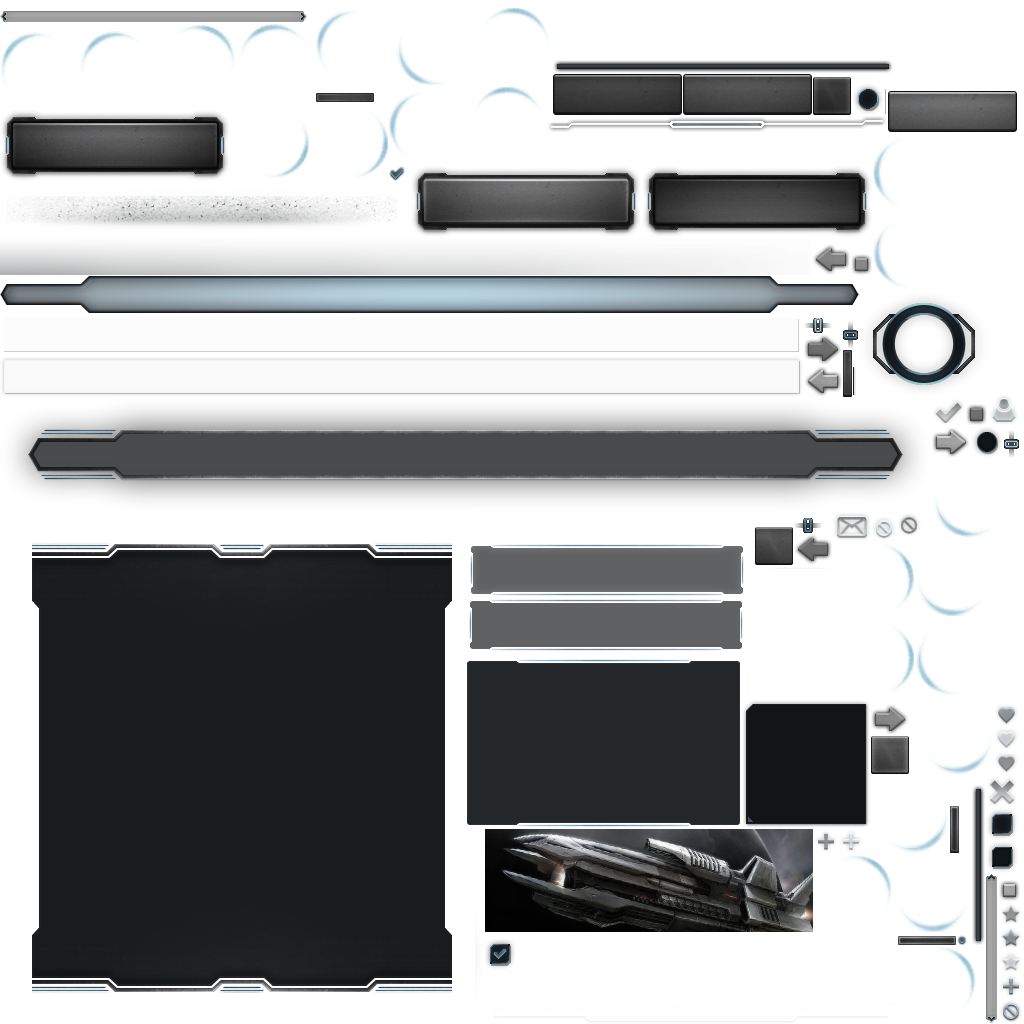
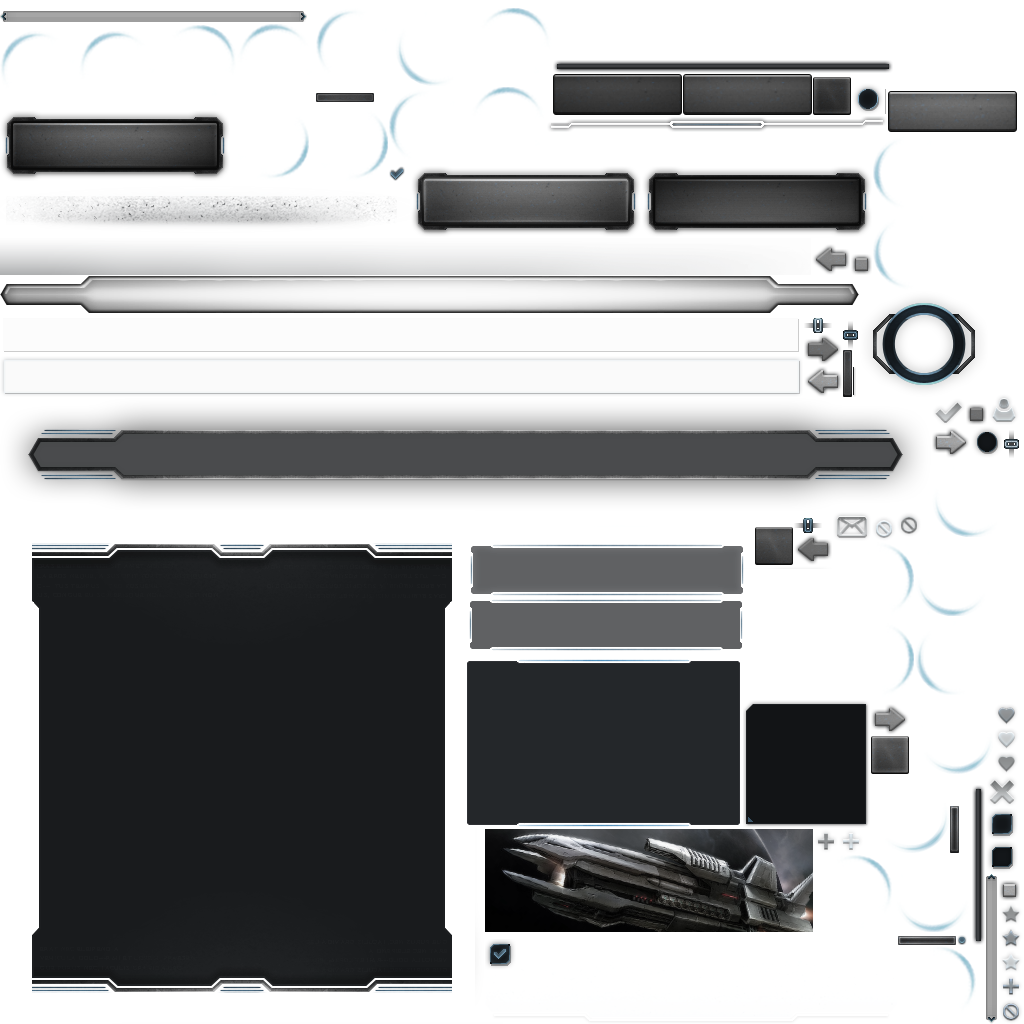
Separate component style for item UIs + option to select the style in the item config files, removed a bunch of hard-coded UI element color changes

Changed region(s): [[0.0, 0.25, 0.8438, 0.3125]]

diff --git a/Subsurface/Source/Characters/AI/CrewCommander.cs b/Subsurface/Source/Characters/AI/CrewCommander.cs
@@ -52,7 +52,7 @@ namespace Barotrauma
 
         private void CreateGUIFrame()
         {
-            frame = new GUIFrame(Rectangle.Empty, Color.Black * 0.6f);
+            frame = new GUIFrame(Rectangle.Empty, Color.Black * 0.6f, null);
             frame.Padding = new Vector4(200.0f, 100.0f, 200.0f, 100.0f);
 
             GUIButton closeButton = new GUIButton(new Rectangle(0, 50, 100, 20), "Close", Alignment.BottomCenter, "", frame);
@@ -110,12 +110,12 @@ namespace Barotrauma
 
         private GUIButton CreateOrderButton(Rectangle rect, Order order, bool createSymbol = true)
         {
-            var orderButton = new GUIButton(rect, order.Name, Color.Black * 0.7f, Alignment.TopCenter, Alignment.Center, null, frame);
+            var orderButton = new GUIButton(rect, order.Name, null, Alignment.TopCenter, Alignment.Center, "GUITextBox", frame);
             orderButton.Padding = new Vector4(5.0f, 5.0f, 5.0f, 5.0f);
-            orderButton.TextColor = Color.White;
+            /*orderButton.TextColor = Color.White;
             orderButton.Color = Color.Black * 0.5f;
             orderButton.HoverColor = Color.LightGray * 0.5f;
-            orderButton.OutlineColor = Color.LightGray * 0.8f;
+            orderButton.OutlineColor = Color.LightGray * 0.8f;*/
             orderButton.UserData = order;
             orderButton.OnClicked = SetOrder;
             
@@ -169,15 +169,15 @@ namespace Barotrauma
                 int x = startX + (150 + spacing) * (i % Math.Min(charactersPerRow, aliveCharacters.Count));
                 int y = (105 + spacing)*((int)Math.Floor((double)i / charactersPerRow));
 
-                GUIButton characterButton = new GUIButton(new Rectangle(x+75, y, 150, 40), "", Color.Black, Alignment.TopCenter, null, frame);
+                GUIButton characterButton = new GUIButton(new Rectangle(x+75, y, 150, 40), "", null, Alignment.TopCenter, "GUITextBox", frame);
                 
                 characterButton.UserData = character;
                 characterButton.Padding = new Vector4(5.0f, 5.0f, 5.0f, 5.0f);
                 
-                characterButton.Color = Character.Controlled == character ? Color.Gold * 0.2f : Color.Black * 0.5f;
-                characterButton.HoverColor = Color.LightGray * 0.5f;
+                characterButton.Color = Character.Controlled == character ? Color.Gold : Color.White;
+                /*characterButton.HoverColor = Color.LightGray * 0.5f;
                 characterButton.SelectedColor = Color.Gold * 0.6f;
-                characterButton.OutlineColor = Color.LightGray * 0.8f;
+                characterButton.OutlineColor = Color.LightGray * 0.8f;*/
 
                 characterFrameBottom = Math.Max(characterFrameBottom, characterButton.Rect.Bottom);
                 
@@ -187,9 +187,9 @@ namespace Barotrauma
                 GUITextBlock textBlock = new GUITextBlock(
                     new Rectangle(40, 0, 0, 25),
                     name,
-                    Color.Transparent, Color.White,
+                    Color.Transparent, null,
                     Alignment.Left, Alignment.Left,
-                    null, characterButton, false);
+                    "", characterButton, false);
                 textBlock.Font = GUI.SmallFont;
                 textBlock.Padding = new Vector4(5.0f, 0.0f, 5.0f, 0.0f);
 
@@ -259,8 +259,8 @@ namespace Barotrauma
             var existingOrder = characterFrame.children.Find(c => c.UserData is Order);
             if (existingOrder != null) characterFrame.RemoveChild(existingOrder);
 
-            var orderFrame = new GUIFrame(new Rectangle(-5, characterFrame.Rect.Height, characterFrame.Rect.Width, 30 + order.Options.Length * 15), null, characterFrame);
-            orderFrame.OutlineColor = Color.LightGray * 0.5f;
+            var orderFrame = new GUIFrame(new Rectangle(-5, characterFrame.Rect.Height, characterFrame.Rect.Width, 30 + order.Options.Length * 15), "InnerFrame", characterFrame);
+            /*orderFrame.OutlineColor = Color.LightGray * 0.5f;*/
             orderFrame.Padding = new Vector4(5.0f, 5.0f, 5.0f, 5.0f);
             orderFrame.UserData = order;
 
@@ -269,18 +269,14 @@ namespace Barotrauma
             img.Color = order.Color;
             img.CanBeFocused = false;
 
-            new GUITextBlock(new Rectangle(0, 0, 0, 20), order.DoingText, "", Alignment.TopLeft, Alignment.TopCenter, orderFrame);
-
-
-
-
-
+            new GUITextBlock(new Rectangle(img.Rect.Width, 0, 0, 20), order.DoingText, "", Alignment.TopLeft, Alignment.CenterLeft, orderFrame);
+            
             var optionList = new GUIListBox(new Rectangle(0, 20, 0, 80), Color.Transparent, null, orderFrame);
             optionList.UserData = order;
 
             for (int i = 0; i < order.Options.Length; i++ )
             {
-                var optionBox = new GUITextBlock(new Rectangle(0, 0, 0, 15), order.Options[i], "", optionList);
+                var optionBox = new GUITextBlock(new Rectangle(0, 0, 0, 15), order.Options[i], "", Alignment.TopLeft, Alignment.CenterLeft, optionList);
                 optionBox.Font = GUI.SmallFont;
                 optionBox.UserData = order.Options[i];
 

diff --git a/Subsurface/Source/GameSession/CrewManager.cs b/Subsurface/Source/GameSession/CrewManager.cs
@@ -38,6 +38,7 @@ namespace Barotrauma
             characterInfos = new List<CharacterInfo>();
             
             guiFrame = new GUIFrame(new Rectangle(0, 50, 150, 450), Color.Transparent);
+            guiFrame.Padding = Vector4.One * 5.0f;
 
             listBox = new GUIListBox(new Rectangle(45, 30, 150, 0), Color.Transparent, null, guiFrame);
             listBox.ScrollBarEnabled = false;
@@ -128,33 +129,14 @@ namespace Barotrauma
             {
                 commander.UpdateCharacters();
             }
-
-
+            
             character.Info.CreateCharacterFrame(listBox, character.Info.Name.Replace(' ', '\n'), character);
 
-            GUIFrame frame = new GUIFrame(new Rectangle(0, 0, 40, 40), Color.Transparent, null, orderListBox);
-            frame.UserData = character;
-            //frame.Padding = new Vector4(5.0f, 5.0f, 5.0f, 5.0f);
-            frame.HoverColor = Color.LightGray * 0.5f;
-            frame.SelectedColor = Color.Gold * 0.5f;
+            GUIFrame orderFrame = new GUIFrame(new Rectangle(0, 0, 40, 40), Color.Transparent, "ListBoxElement", orderListBox);
+            orderFrame.UserData = character;
 
             var ai = character.AIController as HumanAIController;
             SetCharacterOrder(character, ai.CurrentOrder);
-
-           
-
-            //string name = character.Info.Name.Replace(' ', '\n');
-
-            //GUITextBlock textBlock = new GUITextBlock(
-            //    new Rectangle(40, 0, 0, 25),
-            //    name,
-            //    Color.Transparent, Color.White,
-            //    Alignment.Left, Alignment.Left,
-            //    null, frame, false);
-            //textBlock.Font = GUI.SmallFont;
-            //textBlock.Padding = new Vector4(5.0f, 0.0f, 5.0f, 0.0f);
-
-            //new GUIImage(new Rectangle(-10, -5, 0, 0), character.AnimController.Limbs[0].sprite, Alignment.Left, frame);
         }
 
         public void AddToGUIUpdateList()

diff --git a/Subsurface/Source/GUI/GUIProgressBar.cs b/Subsurface/Source/GUI/GUIProgressBar.cs
@@ -56,7 +56,7 @@ namespace Barotrauma
             frame = new GUIFrame(new Rectangle(0, 0, 0, 0), null, this);
             GUI.Style.Apply(frame, "", this);
 
-            slider = new GUIFrame(new Rectangle(0, 0, 0, 0), null, this);
+            slider = new GUIFrame(new Rectangle(0, 0, 0, 0), null);
             GUI.Style.Apply(slider, "Slider", this);
 
             this.barSize = barSize;
@@ -95,7 +95,30 @@ namespace Barotrauma
 
             DrawChildren(spriteBatch);
 
-            //GUI.DrawRectangle(spriteBatch, rect, color * (color.A / 255.0f), true);
+            Color currColor = color;
+            if (state == ComponentState.Selected) currColor = selectedColor;
+            if (state == ComponentState.Hover) currColor = hoverColor;
+
+            if (slider.sprites != null && slider.sprites[state].Count > 0)
+            {
+                foreach (UISprite uiSprite in slider.sprites[state])
+                {
+                    if (uiSprite.Tile)
+                    {
+                        uiSprite.Sprite.DrawTiled(spriteBatch, slider.Rect.Location.ToVector2(), slider.Rect.Size.ToVector2(), currColor);
+                    }
+                    else
+                    {
+                        spriteBatch.Draw(uiSprite.Sprite.Texture,
+                            slider.Rect, new Rectangle(
+                                uiSprite.Sprite.SourceRect.X, 
+                                uiSprite.Sprite.SourceRect.Y, 
+                                (int)(uiSprite.Sprite.SourceRect.Width * (isHorizontal ? barSize : 1.0f)),
+                                (int)(uiSprite.Sprite.SourceRect.Height * (isHorizontal ? 1.0f : barSize))), 
+                            currColor);
+                    }
+                }
+            }
         }
 
     }

diff --git a/Subsurface/Source/Items/Components/ItemComponent.cs b/Subsurface/Source/Items/Components/ItemComponent.cs
@@ -8,7 +8,6 @@ using Microsoft.Xna.Framework;
 using Microsoft.Xna.Framework.Graphics;
 using Barotrauma.Networking;
 using System.IO;
-using System.Globalization;
 
 namespace Barotrauma.Items.Components
 {
@@ -292,6 +291,8 @@ namespace Barotrauma.Items.Components
                         if (components[1].Contains(".")) rect.Y *= GameMain.GraphicsHeight;
                         if (components[2].Contains(".")) rect.Z *= GameMain.GraphicsWidth;
                         if (components[3].Contains(".")) rect.W *= GameMain.GraphicsHeight;
+                        
+                        string style = ToolBox.GetAttributeString(subElement, "style", "");
 
                         Vector4 color = ToolBox.GetAttributeVector4(subElement, "color", Vector4.One);
 
@@ -307,9 +308,9 @@ namespace Barotrauma.Items.Components
                         }
 
                         guiFrame = new GUIFrame(
-                            new Rectangle((int)rect.X, (int)rect.Y, (int)rect.Z, (int)rect.W), 
-                            new Color(color.X, color.Y, color.Z) * color.W, alignment, "");
-                        //guiFrame.Alpha = color.W;
+                            new Rectangle((int)rect.X, (int)rect.Y, (int)rect.Z, (int)rect.W),
+                            new Color(color.X, color.Y, color.Z) * color.W, 
+                            alignment, style);
 
                         break;
                     case "sound":

diff --git a/Subsurface/Source/Networking/GameServer.cs b/Subsurface/Source/Networking/GameServer.cs
@@ -1340,8 +1340,8 @@ namespace Barotrauma.Networking
 
                 clientInfo = new GUIFrame(new Rectangle(0, 0, 180, 0), Color.Transparent, Alignment.TopRight, null, clientNameBox);
                 clientInfo.UserData = client.FileStreamSender;
-                new GUIProgressBar(new Rectangle(0, 4, 160, clientInfo.Rect.Height - 8), Color.Green, "", 0.0f, Alignment.Left, clientInfo).IsHorizontal = true;
-                new GUITextBlock(new Rectangle(0, 2, 160, 0), "", "", Alignment.TopLeft, Alignment.Left | Alignment.CenterY, clientInfo, true, GUI.SmallFont);
+                new GUIProgressBar(new Rectangle(0, 4, 160, clientInfo.Rect.Height - 8), Color.White, "", 0.0f, Alignment.Left, clientInfo).IsHorizontal = true;
+                new GUITextBlock(new Rectangle(0, 2, 160, 0), "", "", Alignment.Center, Alignment.Center, clientInfo, true, GUI.SmallFont);
 
                 var cancelButton = new GUIButton(new Rectangle(20, 0, 14, 0), "X", Alignment.Right, "", clientInfo);
                 cancelButton.OnClicked = (GUIButton button, object userdata) =>

diff --git a/Subsurface/Source/Characters/CharacterInfo.cs b/Subsurface/Source/Characters/CharacterInfo.cs
@@ -254,14 +254,9 @@ namespace Barotrauma
 
         public GUIFrame CreateCharacterFrame(GUIComponent parent, string text, object userData)
         {
-            GUIFrame frame = new GUIFrame(new Rectangle(0, 0, 0, 40), Color.Transparent, null, parent);
+            GUIFrame frame = new GUIFrame(new Rectangle(0, 0, 0, 40), Color.Transparent, "ListBoxElement", parent);
             frame.UserData = userData;
-            frame.Padding = new Vector4(5.0f, 5.0f, 5.0f, 5.0f);
-            frame.HoverColor = Color.LightGray * 0.5f;
-            frame.SelectedColor = Color.Gold * 0.5f;
-
-           // string name = character.Info.Name.Replace(' ', '\n');
-
+            
             GUITextBlock textBlock = new GUITextBlock(
                 new Rectangle(40, 0, 0, 25),
                 text,

diff --git a/Subsurface/Source/Map/MapEntity.cs b/Subsurface/Source/Map/MapEntity.cs
@@ -657,10 +657,8 @@ namespace Barotrauma
 
             highlightedListBox = new GUIListBox(
                 new Rectangle((int)PlayerInput.MousePosition.X+15, (int)PlayerInput.MousePosition.Y+15, 150, highlightedEntities.Count * 15), 
-                null, Alignment.TopLeft, "", null, false);
-
-            highlightedListBox.Color = Color.Black * 0.6f;
-
+                null, Alignment.TopLeft, "GUIToolTip", null, false);
+            
             foreach (MapEntity entity in highlightedEntities)
             {
                 var textBlock = new GUITextBlock(

diff --git a/Subsurface/Source/GameSession/GameModes/SinglePlayerMode.cs b/Subsurface/Source/GameSession/GameModes/SinglePlayerMode.cs
@@ -56,7 +56,7 @@ namespace Barotrauma
 
             CargoManager = new CargoManager();
 
-            endShiftButton = new GUIButton(new Rectangle(GameMain.GraphicsWidth - 220, 20, 200, 25), "End shift", Alignment.TopLeft, "");
+            endShiftButton = new GUIButton(new Rectangle(GameMain.GraphicsWidth - 220, 20, 200, 25), "End shift", null, Alignment.TopLeft, Alignment.Center, "");
             endShiftButton.Font = GUI.SmallFont;
             endShiftButton.OnClicked = TryEndShift;
 

diff --git a/Subsurface/Source/Items/Components/Machines/Radar.cs b/Subsurface/Source/Items/Components/Machines/Radar.cs
@@ -114,7 +114,7 @@ namespace Barotrauma.Items.Components
         public override void DrawHUD(SpriteBatch spriteBatch, Character character)
         {
             GuiFrame.Draw(spriteBatch);
-
+            
             if (voltage < minVoltage && powerConsumption > 0.0f) return;
 
             int radius = GuiFrame.Rect.Height / 2 - 30;

diff --git a/Subsurface/Source/GUI/GUIListBox.cs b/Subsurface/Source/GUI/GUIListBox.cs
@@ -151,7 +151,7 @@ namespace Barotrauma
             scrollBar.IsHorizontal = isHorizontal;            
 
             frame = new GUIFrame(Rectangle.Empty, style, this);
-            GUI.Style.Apply(frame, "", this);
+            if (style != null) GUI.Style.Apply(frame, style, this);
 
             UpdateScrollBarSize();
 
